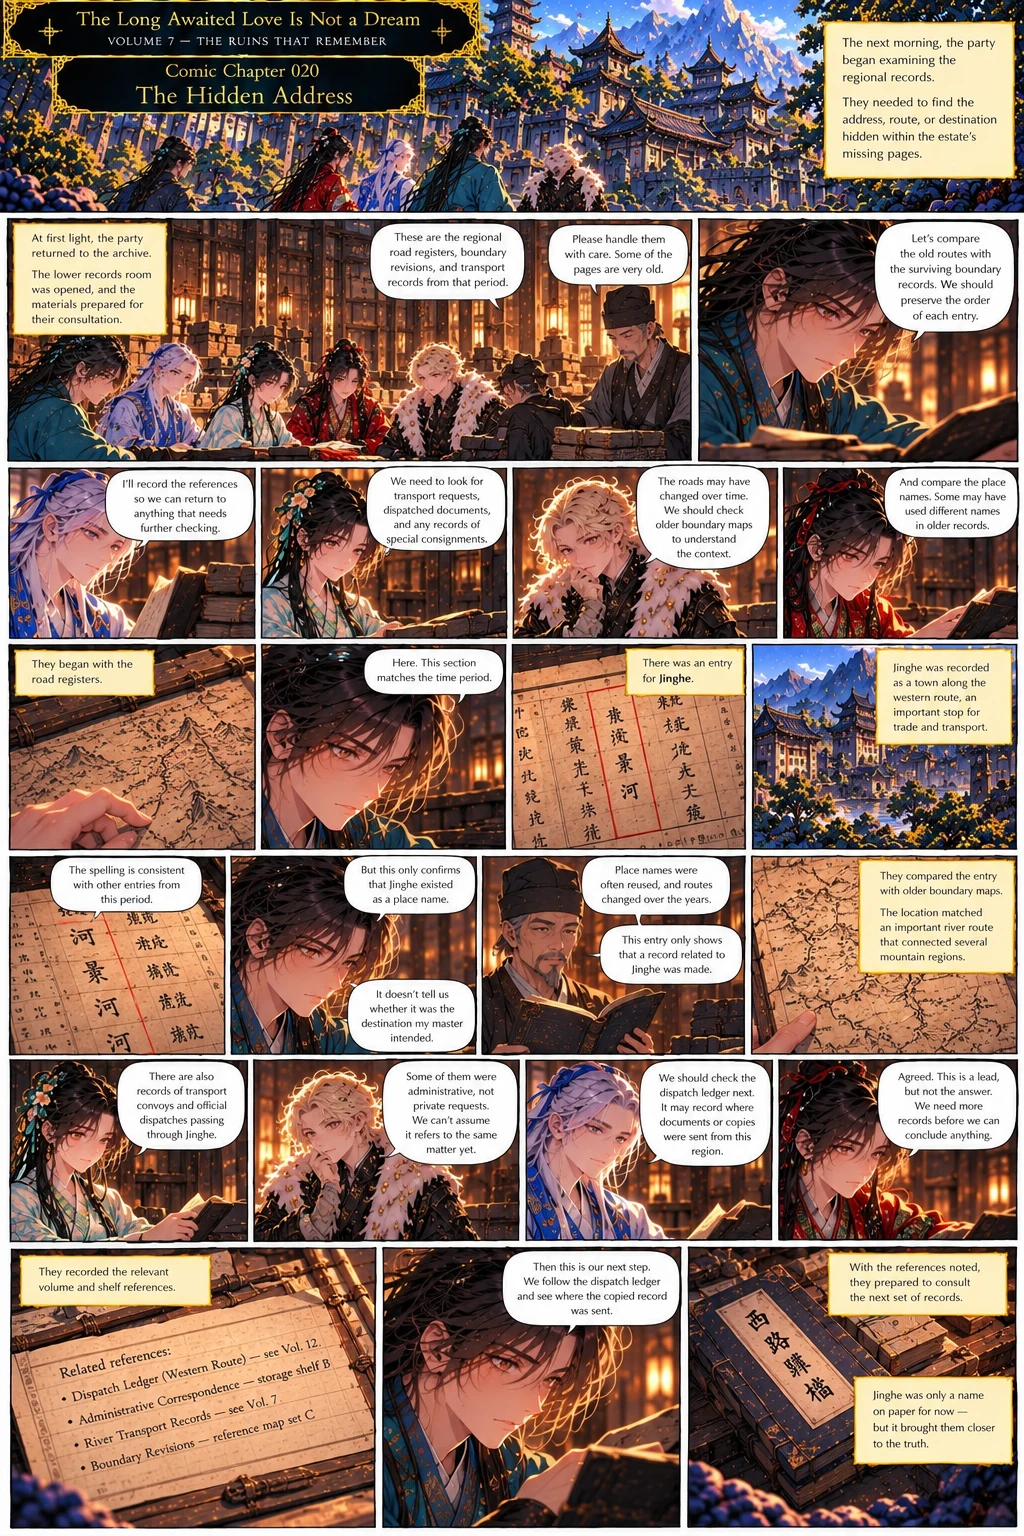
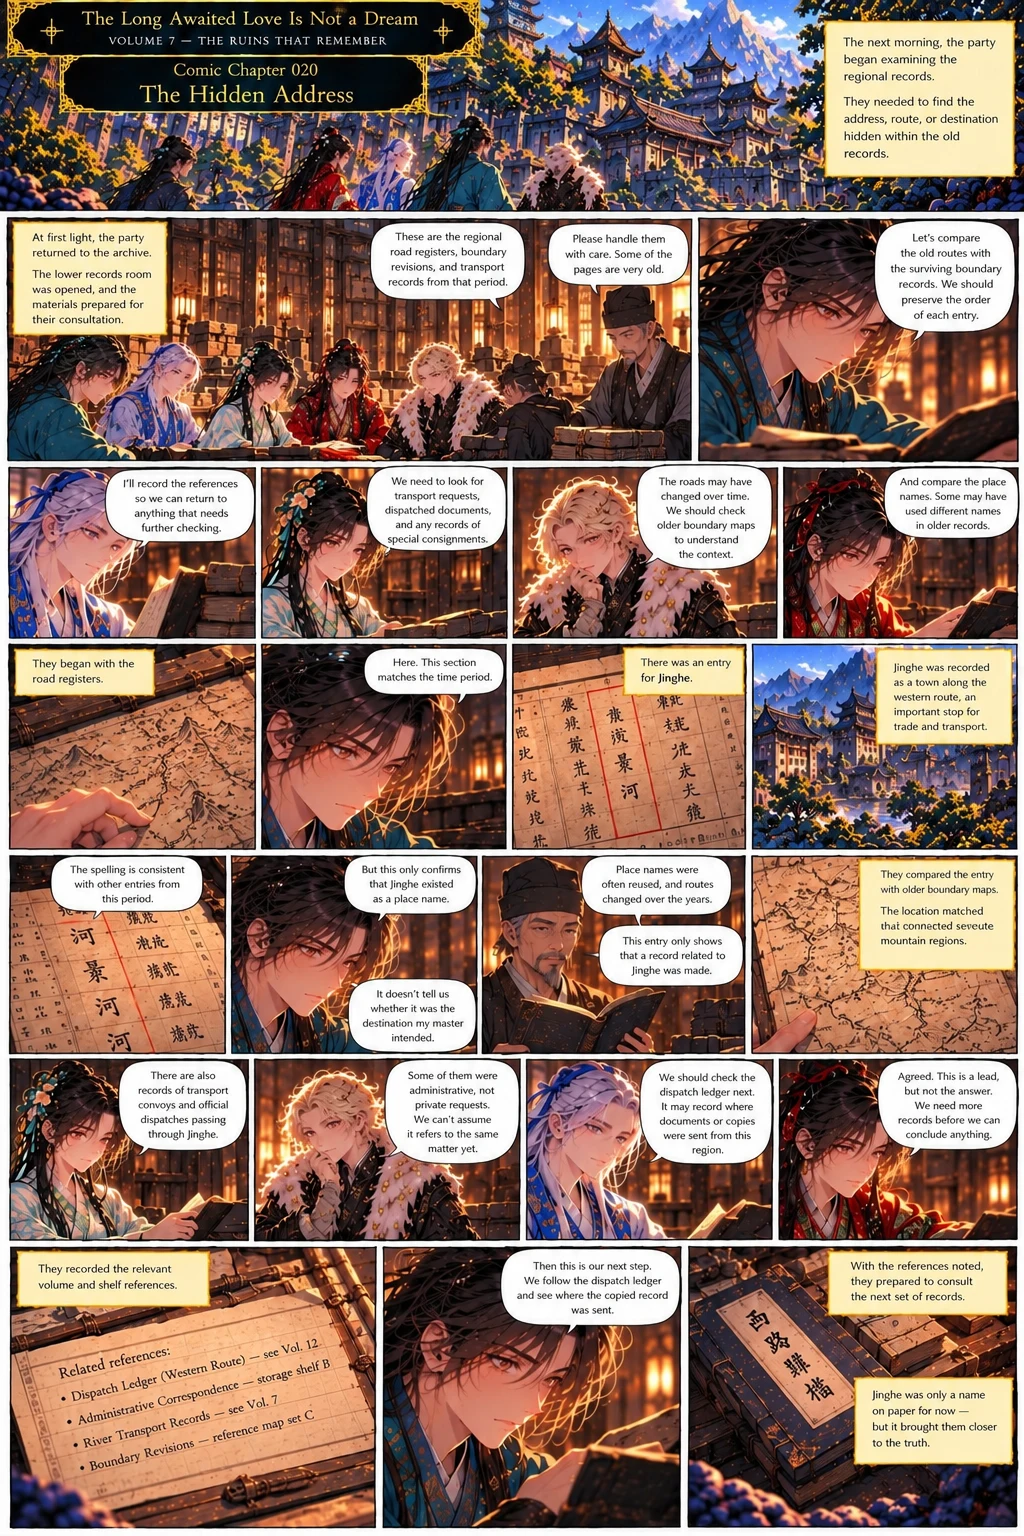
Volume 7: install corrected comic 020 header
Claude-Session: https://claude.ai/code/session_01XEYzSJa6dBuS74MycM45Hs

Changed region(s): [[0.0, 0.0, 1.0, 1.0], [0.4062, 0.8438, 0.4375, 0.9062]]

diff --git a/scripts/chapters.js b/scripts/chapters.js
@@ -926,7 +926,7 @@ const CHAPTER_DESIGN = {
   events:['The records office and its rule: register first, consult tomorrow.','An inn for the night; Hoko jokes about broken windows.','Xiao Tian: "I don\'t want to turn every ordinary thing into a sign."','Moonlight over the quiet records building.'],
   chars:['xiyu','dongyue','cangyuan','xining','xiaotian','yaxing','hoko','yanwatcher'], intro:[], unlocks:['Story: a night in the city']},
  257:{title:'The Hidden Address', book:'—', loc:'The lower storage rooms of the records office',
-  sum:'VOLUME 7, COMIC 020 (regenerated). The next morning the party begins examining the regional records; they need to find the address, route or destination that may lie behind the estate\'s missing pages. At first light they return to the archive: the lower records room is opened and the materials prepared. "These are the regional road registers, boundary revisions, and transport records from that period. Please handle them with care. Some of the pages are very old." Cangyuan: "Let\'s compare the old routes with the surviving boundary records. We should preserve the order of each entry." Dongyue: "I\'ll record the references so we can return to anything that needs further checking." Xiyu: "We need to look for transport requests, dispatched documents, and any records of special consignments." Hoko: "The roads may have changed over time. We should check older boundary maps to understand the context." Xiao Yan: "And compare the place names. Some may have used different names in older records." They begin with the road registers. "Here. This section matches the time period." There was an entry for Jinghe: it was recorded as a town along the western route, an important stop for trade and transport. Cangyuan: "The spelling is consistent with other entries from this period." Xiao Tian: "But this only confirms that Jinghe existed as a place name. It doesn\'t tell us whether it was the destination my master intended." The records keeper: "Place names were often reused, and routes changed over the years. This entry only shows that a record related to Jinghe was made." They compare the entry with older boundary maps; the location matches an important river route connecting several mountain regions. Xining notes there are also records of transport convoys and official dispatches passing through Jinghe. Hoko: "Some of them were administrative, not private requests. We can\'t assume it refers to the same matter yet." Cangyuan: "We should check the dispatch ledger next. It may record where documents or copies were sent from this region." Xiyu: "Agreed. This is a lead, but not the answer. We need more records before we can conclude anything." They record the related references: the Dispatch Ledger (Western Route), administrative correspondence, river transport records and boundary revisions. "Then this is our next step. We follow the dispatch ledger and see where the copied record was sent." Jinghe was only a name on paper for now, but it brought them closer to the truth.',
+  sum:'VOLUME 7, COMIC 020 (regenerated). The next morning the party begins examining the regional records; they need to find the address, route or destination hidden within the old records. At first light they return to the archive: the lower records room is opened and the materials prepared. "These are the regional road registers, boundary revisions, and transport records from that period. Please handle them with care. Some of the pages are very old." Cangyuan: "Let\'s compare the old routes with the surviving boundary records. We should preserve the order of each entry." Dongyue: "I\'ll record the references so we can return to anything that needs further checking." Xiyu: "We need to look for transport requests, dispatched documents, and any records of special consignments." Hoko: "The roads may have changed over time. We should check older boundary maps to understand the context." Xiao Yan: "And compare the place names. Some may have used different names in older records." They begin with the road registers. "Here. This section matches the time period." There was an entry for Jinghe: it was recorded as a town along the western route, an important stop for trade and transport. Cangyuan: "The spelling is consistent with other entries from this period." Xiao Tian: "But this only confirms that Jinghe existed as a place name. It doesn\'t tell us whether it was the destination my master intended." The records keeper: "Place names were often reused, and routes changed over the years. This entry only shows that a record related to Jinghe was made." They compare the entry with older boundary maps; the location matches an important river route connecting several mountain regions. Xining notes there are also records of transport convoys and official dispatches passing through Jinghe. Hoko: "Some of them were administrative, not private requests. We can\'t assume it refers to the same matter yet." Cangyuan: "We should check the dispatch ledger next. It may record where documents or copies were sent from this region." Xiyu: "Agreed. This is a lead, but not the answer. We need more records before we can conclude anything." They record the related references: the Dispatch Ledger (Western Route), administrative correspondence, river transport records and boundary revisions. "Then this is our next step. We follow the dispatch ledger and see where the copied record was sent." Jinghe was only a name on paper for now, but it brought them closer to the truth.',
   events:['The regional registers, opened at first light.','Jinghe: a town on the western route.','"It doesn\'t tell us whether it was the destination my master intended."','Next step: the dispatch ledger.'],
   chars:['xiyu','dongyue','cangyuan','xining','xiaotian','yaxing','hoko','yanwatcher'], intro:[], unlocks:['Story: Jinghe, a town on the western route']},
  258:{title:'The Master\'s Birthday', book:'—', loc:'The records office and its courtyard',

diff --git a/sw.js b/sw.js
@@ -1,5 +1,5 @@
 /* Crimson Moon service worker: app shell cached for offline play; images/comics cached as you play. */
-const VERSION = 'crimson-moon-v59';
+const VERSION = 'crimson-moon-v60';
 const SHELL = ['./', './index.html', './styles.css', './manifest.webmanifest',
   './scripts/characters.js','./scripts/chapters.js','./scripts/script.js','./scripts/script_v2.js','./scripts/hooks.js','./scripts/bounties.js','./scripts/relations.js','./scripts/board.js','./scripts/rest.js','./scripts/herbal.js','./scripts/personal.js','./scripts/equip.js','./scripts/ledger.js','./scripts/seal.js','./scripts/people.js','./scripts/core.js','./scripts/enemies.js','./scripts/battle.js','./scripts/confrontation.js','./scripts/journal.js','./scripts/temple.js','./assets/maps/ice_temple.webp','./assets/maps/ice_temple_v4.webp','./assets/maps/ice_temple_lower_v4.webp','./assets/volume4_cover.webp','./assets/volume5_cover.webp','./assets/volume6_cover.webp',
   './scripts/savedata.js','./scripts/storypopup.js','./scripts/ui.js','./assets/splash.webp','./assets/volume1_cover.webp','./assets/icons/icon-192.png','./assets/icons/icon-512.png','./assets/icons/icon-maskable-192.png','./assets/icons/icon-maskable-512.png'];

diff --git a/docs/VOLUME2.md b/docs/VOLUME2.md
@@ -397,3 +397,4 @@ Keep 008-010 and 015 as the canonical versions; replace the old 011-014 in seque
 - 019 kept. 020 regenerated (no repeat of 019; Jinghe is recorded as a town on the western route, with related references to the dispatch ledger, correspondence, river transport records and boundary revisions). Game text and the Jinghe hook rewritten to match.
 - Titles: 022 is now **The Transfer Record** (chapter 259); 023 is now **The Letter Left Behind** (chapter 260). The earlier note that 020 repeats 019 and that 023's title implied the master's death is resolved.
 - **For the author:** the new 020 header says they must find the address "hidden within the estate's missing pages", but the missing pages are only discovered in 024. Consider changing that line (e.g. "hidden within the old records").
+- Comic 020 re-supplied with the header fixed ("hidden within the old records"); installed, game text updated, and the earlier header note is resolved.
